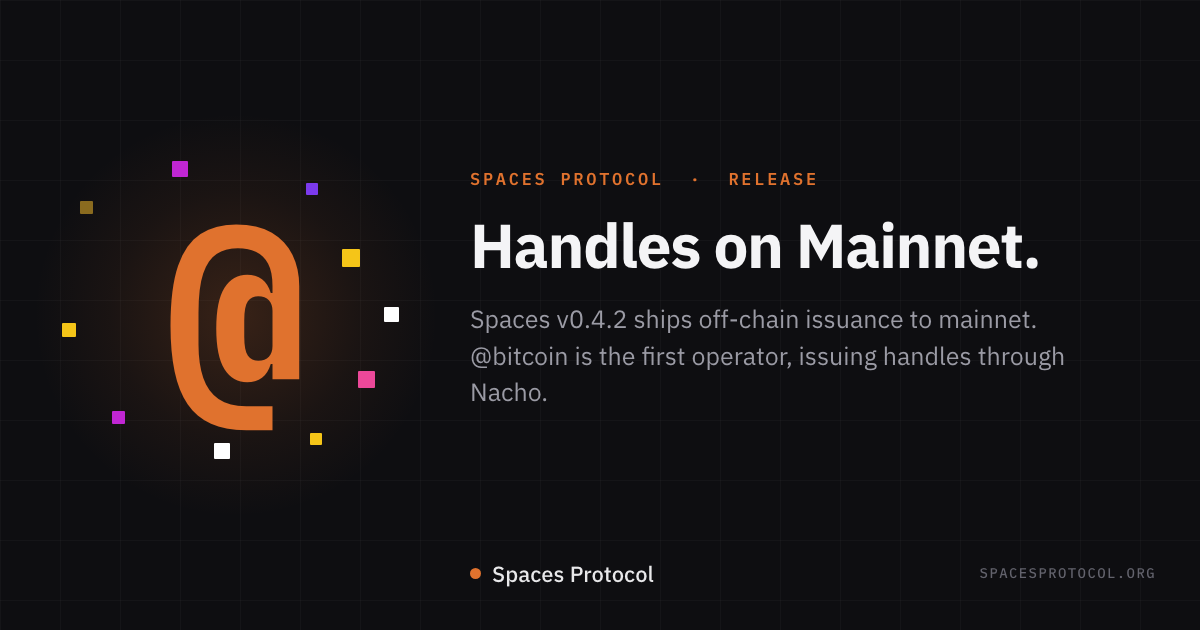
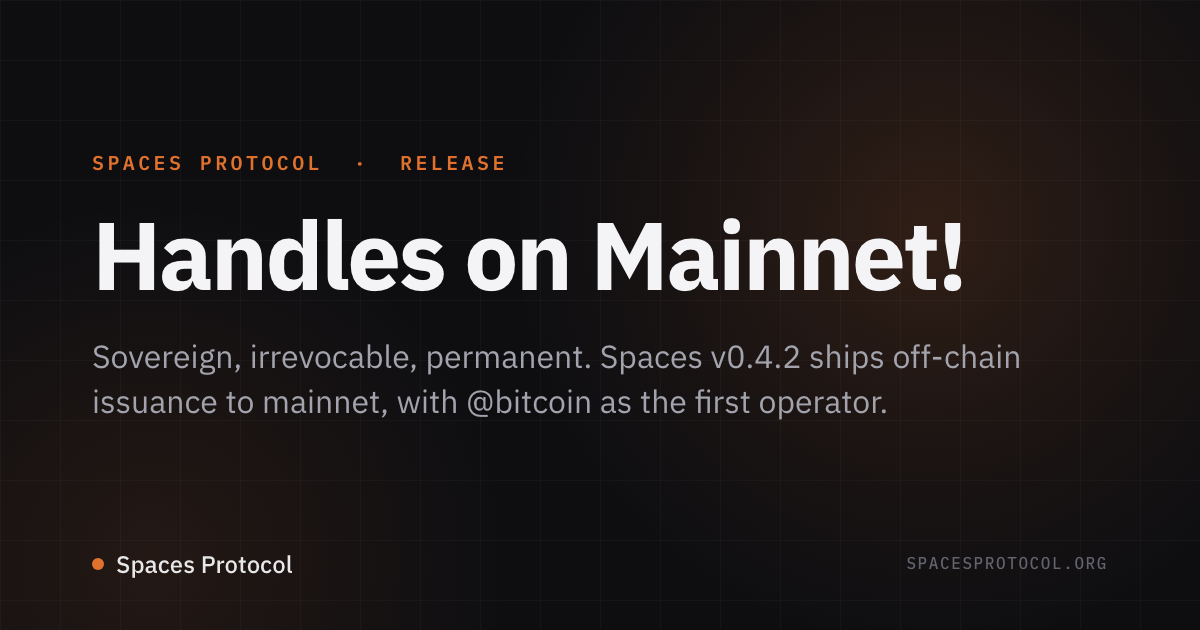
Simplify launch post OG image
Drop the left artwork and scale up the type so the card reads at
preview size. Headline is now "Handles on Mainnet!".

diff --git a/content/blog/handles-on-mainnet/og-image.html b/content/blog/handles-on-mainnet/og-image.html
@@ -23,62 +23,45 @@
             linear-gradient(90deg, rgba(255,255,255,.028) 1px, transparent 1px);
         background-size: 60px 60px;
     }
-    /* left art */
-    .art { position: absolute; left: 96px; top: 175px; width: 280px; height: 280px; }
-    .glow {
-        position: absolute; left: 50%; top: 50%; transform: translate(-50%,-50%);
-        width: 420px; height: 420px; border-radius: 50%;
-        background: radial-gradient(circle, rgba(224,114,46,.20) 0%, rgba(224,114,46,.06) 42%, transparent 68%);
+    /* accent wash, keeps the plate from reading flat once the art is gone */
+    .wash {
+        position: absolute; right: -180px; top: -220px; width: 900px; height: 900px;
+        background: radial-gradient(circle, rgba(224,114,46,.16) 0%, rgba(224,114,46,.05) 40%, transparent 66%);
     }
-    .at {
-        position: absolute; inset: 0; display: flex; align-items: center; justify-content: center;
-        font-family: 'Lilex', 'IBM Plex Sans', monospace; font-weight: 700; font-size: 250px;
-        color: #e0722e; line-height: 1;
+    .wash-2 {
+        position: absolute; left: -260px; bottom: -340px; width: 820px; height: 820px;
+        background: radial-gradient(circle, rgba(224,114,46,.10) 0%, transparent 62%);
     }
-    .px { position: absolute; border-radius: 1px; }
-    /* right column */
-    .col { position: absolute; left: 470px; top: 168px; width: 660px; }
+
+    .col { position: absolute; left: 92px; right: 92px; top: 150px; }
     .eyebrow {
-        font-family: 'Lilex', monospace; font-weight: 600; font-size: 17px;
-        letter-spacing: .16em; color: #e0722e; text-transform: uppercase; margin-bottom: 22px;
+        font-family: 'Lilex', monospace; font-weight: 600; font-size: 20px;
+        letter-spacing: .17em; color: #e0722e; text-transform: uppercase; margin-bottom: 30px;
     }
     h1 {
-        font-size: 62px; font-weight: 700; letter-spacing: -.022em; line-height: 1.05;
-        color: #f4f4f6; margin-bottom: 24px;
+        font-size: 96px; font-weight: 700; letter-spacing: -.028em; line-height: 1;
+        color: #f4f4f6; margin-bottom: 32px;
     }
-    p { font-size: 25px; line-height: 1.46; color: #9b9ba5; max-width: 600px; font-weight: 400; }
+    p { font-size: 32px; line-height: 1.42; color: #a3a3ad; max-width: 960px; font-weight: 400; }
     /* footer */
-    .foot { position: absolute; left: 470px; bottom: 42px; display: flex; align-items: center; gap: 11px; }
-    .dot { width: 11px; height: 11px; border-radius: 50%; background: #e0722e; }
-    .brand { font-size: 22px; font-weight: 500; color: #e8e8ea; }
+    .foot { position: absolute; left: 92px; bottom: 50px; display: flex; align-items: center; gap: 12px; }
+    .dot { width: 12px; height: 12px; border-radius: 50%; background: #e0722e; }
+    .brand { font-size: 24px; font-weight: 500; color: #e8e8ea; }
     .url {
-        position: absolute; right: 44px; bottom: 48px;
-        font-family: 'Lilex', monospace; font-size: 14px; letter-spacing: .1em; color: #63636d;
+        position: absolute; right: 92px; bottom: 56px;
+        font-family: 'Lilex', monospace; font-size: 16px; letter-spacing: .1em; color: #63636d;
     }
 </style>
 </head>
 <body>
     <div class="grid"></div>
-
-    <div class="art">
-        <div class="glow"></div>
-        <div class="at">@</div>
-        <div class="px" style="left:-16px;  top:26px;  width:13px; height:13px; background:#8a6b1f"></div>
-        <div class="px" style="left:76px;   top:-14px; width:16px; height:16px; background:#c026d3"></div>
-        <div class="px" style="left:210px;  top:8px;   width:12px; height:12px; background:#7c3aed"></div>
-        <div class="px" style="left:246px;  top:74px;  width:18px; height:18px; background:#f5c518"></div>
-        <div class="px" style="left:288px;  top:132px; width:15px; height:15px; background:#ffffff"></div>
-        <div class="px" style="left:-34px;  top:148px; width:14px; height:14px; background:#f5c518"></div>
-        <div class="px" style="left:262px;  top:196px; width:17px; height:17px; background:#ec4899"></div>
-        <div class="px" style="left:16px;   top:236px; width:13px; height:13px; background:#c026d3"></div>
-        <div class="px" style="left:118px;  top:268px; width:16px; height:16px; background:#ffffff"></div>
-        <div class="px" style="left:214px;  top:258px; width:12px; height:12px; background:#f5c518"></div>
-    </div>
+    <div class="wash"></div>
+    <div class="wash-2"></div>
 
     <div class="col">
         <div class="eyebrow">Spaces Protocol &nbsp;·&nbsp; Release</div>
-        <h1>Handles on Mainnet.</h1>
-        <p>Spaces v0.4.2 ships off-chain issuance to mainnet. @bitcoin is the first operator, issuing handles through Nacho.</p>
+        <h1>Handles on Mainnet!</h1>
+        <p>Sovereign, irrevocable, permanent. Spaces v0.4.2 ships off-chain issuance to mainnet, with @bitcoin as the first operator.</p>
     </div>
 
     <div class="foot">
